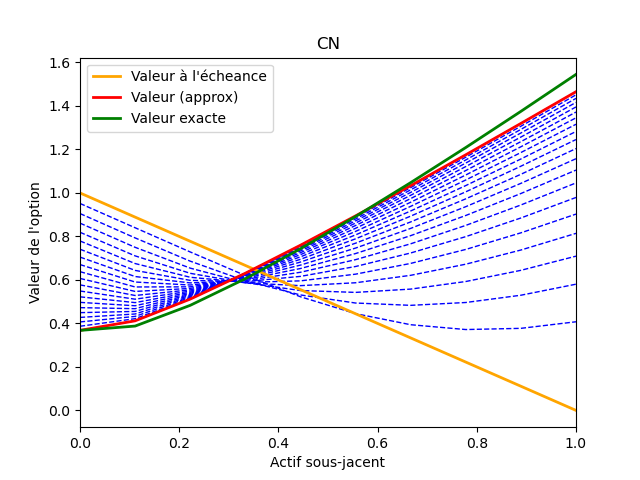
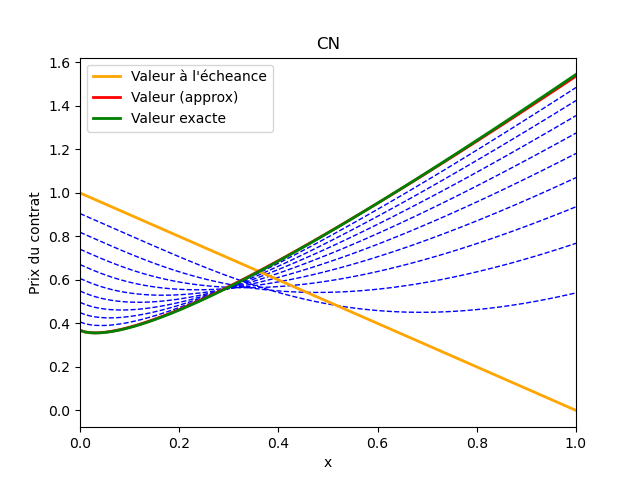
etude_erreur

Changed region(s): [[0.125, 0.1562, 0.9062, 0.7188], [0.0312, 0.375, 0.0625, 0.625], [0.4062, 0.9375, 0.5938, 1.0]]

diff --git a/main.py b/main.py
@@ -1,3 +1,4 @@
+from turtle import color
 from price_simu import *
 import scipy.stats as st
 
@@ -11,30 +12,34 @@ if __name__ == '__main__':
     sigma = 2.0    # volatilite du sous-jacent
     M = 2    #Stike
     
-    N = 10
+    N = 20
     J = 2000
     
-    method = 'EE'
+    method = 'EI'
     #compute_solution(sigma,r,N,J,M,T,method)
     study_error = True
     if (study_error):
         
         #Compute error for a fixed time step J=200
-        J_cte = 2000
+        J_cte = 100
+        print("Erreur sur h.....\n")
         #Choose N such that k/h**2 <= 0.2 with h = 1/N and k = T/J
         k = T/J_cte
-        N_space_st = np.arange(10,20,1) #20
+        N_space_st = np.arange(100,1000,70) #20
         error_list = []
         for N_ in N_space_st:
+            print("N = ",N_)
             error = compute_solution(sigma,r,N_,J_cte,M,T,method)
             error_list.append(error)
         error_list = np.array(error_list)
         #Plot the error in log scale
         plt.figure()
-        plt.plot(np.log(1/N_space_st),np.log(error_list))
+        val_err, = plt.plot(np.log(1/N_space_st),np.log(error_list),color='blue', linestyle='solid', linewidth=2)
+        #val_ref, = plt.plot(np.log(1/N_space_st),np.log(1/N_space_st**2),color='red')
         plt.xlabel("log(h)")
         plt.ylabel("log(error)")
         plt.title("Error in function of h for J = 2000 for "+method)
+        #plt.legend([val_err,val_ref],["Error","2log(h)"])
         plt.savefig("error_N_J2000"+method+".png")
         #linear regression between log(error) and log(h)
         lr_h = st.linregress(np.log(1/N_space_st),np.log(error_list))
@@ -43,20 +48,25 @@ if __name__ == '__main__':
         
         
         
-        #Compute error for a fixed space step N=100
+        #Compute error for a fixed space step N=12
         N_cte = 12
+        print("Erreur sur k.....\n")
         error_list_2 = []
-        J_time_st = np.arange(1000,2000,5)
+        J_time_st = np.arange(10,200,20)
         for J_ in J_time_st:
+            print("J = ",J_)
             error = compute_solution(sigma,r,N_cte,J_,M,T,method)
             error_list_2.append(error)
         error_list_2 = np.array(error_list_2)
         #Plot the error in log scale
         plt.figure()
-        plt.plot(np.log(T/J_time_st),np.log(error_list_2))
+        val_err, =plt.plot(np.log(T/J_time_st),np.log(error_list_2),color='blue', linestyle='solid', linewidth=2)
+        #val_ref,  = plt.plot(np.log(T/J_time_st),np.log(T/J_time_st),color='red')
+        
         plt.xlabel("log(k)")
         plt.ylabel("log(error)")
         plt.title("Error in function of k for N=10 for "+method)
+        #plt.legend([val_err,val_ref],["Error","log(k)"])
         plt.savefig("error_J_N10"+method+".png")
         
         #linear regression between log(error) and log(k)

diff --git a/price_simu.py b/price_simu.py
@@ -42,10 +42,15 @@ def compute_solution(sigma,r,N,J,M,T,method='EI'):
     
     #----Loop over time
     Uj = W_0
+    err = np.linalg.norm(Uj-solu_exact_vect(sigma,r,T,T,x))
+    max_err = err
     for j in range (1,J):
         Uj = B.dot(Uj)
+        err = np.linalg.norm(Uj-solu_exact_vect(sigma,r,T-t[j],T,x))
+        if (err>max_err):
+            max_err = err
         if (plot_option):
-            if (j + 1) % 100 == 0:
+            if (j + 1) % 200 == 0:
                 plt.plot(x, Uj, color='blue', linestyle='dashed', linewidth=1)
     
     if (plot_option):      
@@ -53,8 +58,8 @@ def compute_solution(sigma,r,N,J,M,T,method='EI'):
         valfin, = plt.plot(x, Uj,  color='red', linestyle='solid', linewidth=2)
         valex, = plt.plot(x, sol, color='green', linestyle='solid', linewidth=2)
         
-        plt.xlabel("Actif sous-jacent")
-        plt.ylabel("Valeur de l'option")
+        plt.xlabel("x")
+        plt.ylabel("Prix du contrat")
 
         plt.xlim((0.,1))
         
@@ -66,10 +71,9 @@ def compute_solution(sigma,r,N,J,M,T,method='EI'):
         nom_fichier = "opt_floating_" + method + ".png"
         plt.savefig(nom_fichier)
     
-    erreur = sol-Uj
-    erreur = np.linalg.norm(erreur)
     
-    return erreur
+    
+    return max_err
 
 
     

diff --git a/utils.py b/utils.py
@@ -79,13 +79,13 @@ def solu_exact_2(sigma,r,t,T,x):
         
 def solu_exact(sigma,r,t,T,x):
     
-    d1 = (np.log(.0000001 + x) + (r + .5*sigma*sigma)*T)/(sigma*np.sqrt(T))
+    d1 = (np.log(.0000001 + x) + (r + .5*sigma*sigma)*(T-t+.000001))/(sigma*np.sqrt(T-t+.000001))
 
-    a1 = norm.cdf(-d1+sigma*np.sqrt(T))*np.exp(-r*T) #*np.exp(-r*T) enlevé
+    a1 = norm.cdf(-d1+sigma*np.sqrt(T-t+.000001))*np.exp(-r*(T-t+.000001)) #*np.exp(-r*T) enlevé
     a2 = - x*norm.cdf(-1.*d1)
-    a3 = x*sigma*sigma/(2*r)*np.exp(-r*T) #*np.exp(-r*T) enlevé
-    f1 = -np.power(.0000001 + x,-2*r/(sigma*sigma))*norm.cdf(d1-(2*r/sigma)*np.sqrt(T))
-    f2 = np.exp(r*T) *norm.cdf(d1)
+    a3 = x*sigma*sigma/(2*r)*np.exp(-r*(T-t+.000001)) #*np.exp(-r*T) enlevé
+    f1 = -np.power(.0000001 + x,-2*r/(sigma*sigma))*norm.cdf(d1-(2*r/sigma)*np.sqrt(T-t+.000001))
+    f2 = np.exp(r*(T-t+.000001)) *norm.cdf(d1)
 
     sol_ex = a1+a2+a3*(f1+f2)
     return sol_ex
